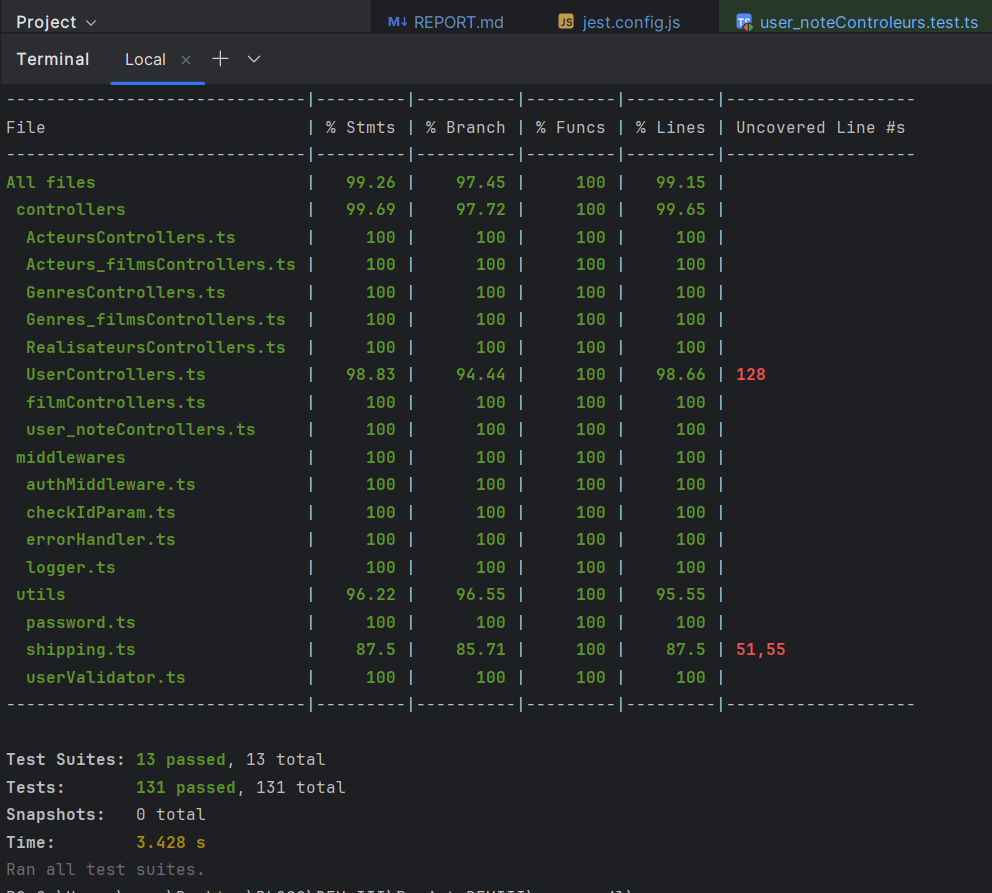
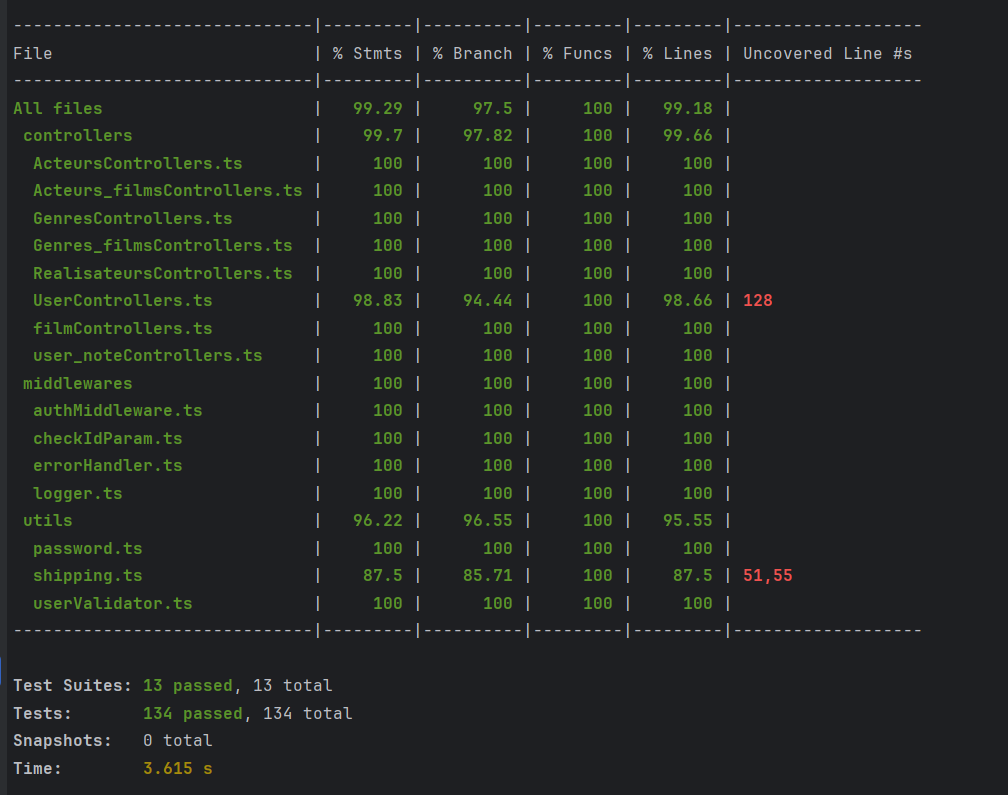
fix: mise à jour du screenshot et du tableau de résultat de Report.md

diff --git a/REPORT.md b/REPORT.md
@@ -85,8 +85,8 @@ qui sont soit vraie, soit fausse donc soit 0%, soit 100%.
 ------------------------------|---------|----------|---------|---------|-------------------
 File                          | % Stmts | % Branch | % Funcs | % Lines | Uncovered Line #s 
 ------------------------------|---------|----------|---------|---------|-------------------
-All files                     |   99.26 |    97.45 |     100 |   99.15 |                   
- controllers                  |   99.69 |    97.72 |     100 |   99.65 |                   
+All files                     |   99.29 |     97.5 |     100 |   99.18 |                   
+ controllers                  |    99.7 |    97.82 |     100 |   99.66 |                   
   ActeursControllers.ts       |     100 |      100 |     100 |     100 |                   
   Acteurs_filmsControllers.ts |     100 |      100 |     100 |     100 |                   
   GenresControllers.ts        |     100 |      100 |     100 |     100 |                  
@@ -107,9 +107,10 @@ All files                     |   99.26 |    97.45 |     100 |   99.15 |
 ------------------------------|---------|----------|---------|---------|-------------------
 
 Test Suites: 13 passed, 13 total
-Tests:       131 passed, 131 total
+Tests:       134 passed, 134 total
 Snapshots:   0 total
-Time:        3.428 s
+Time:        3.615 s
+
 
 ```
 ![img.png](img.png)
